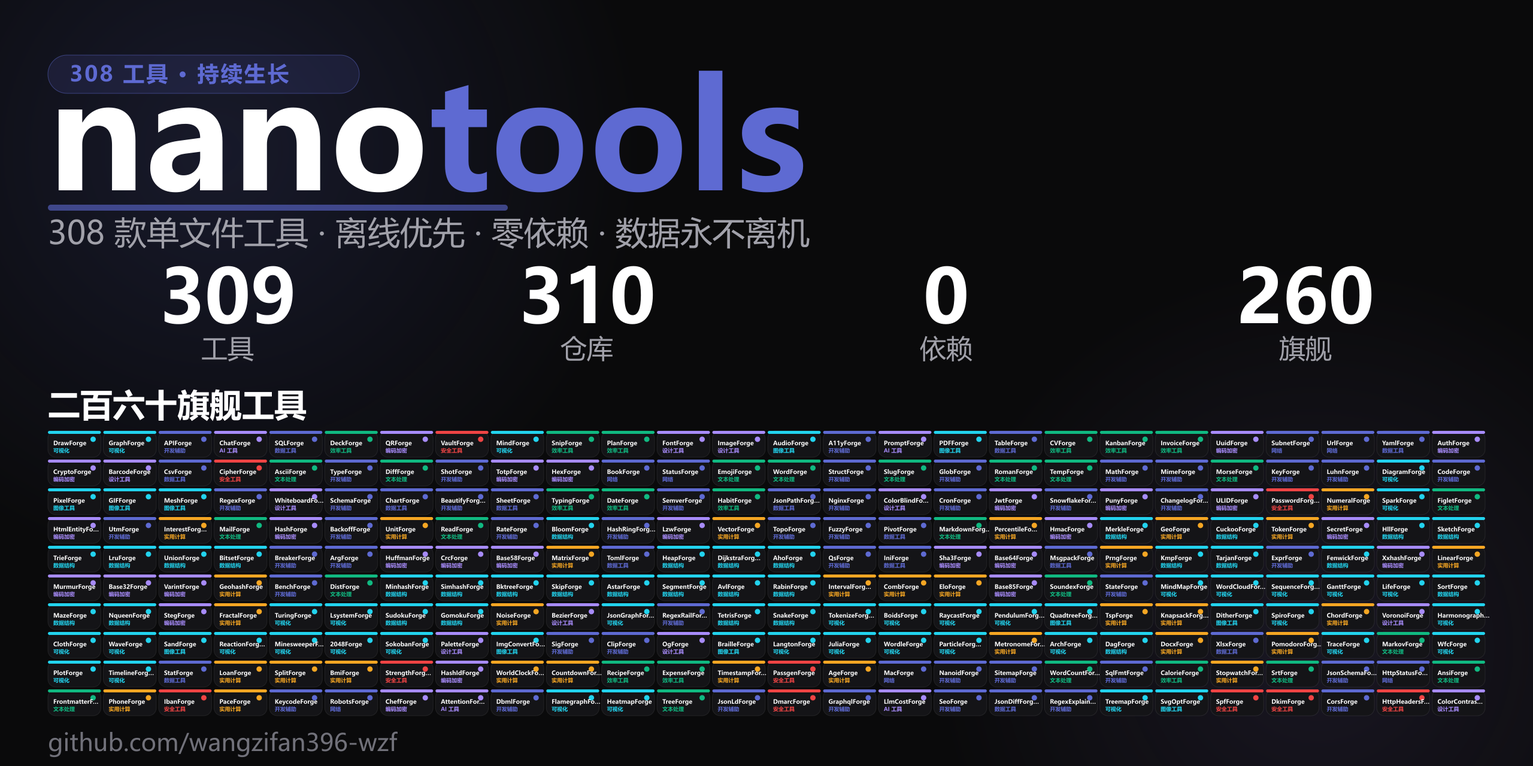
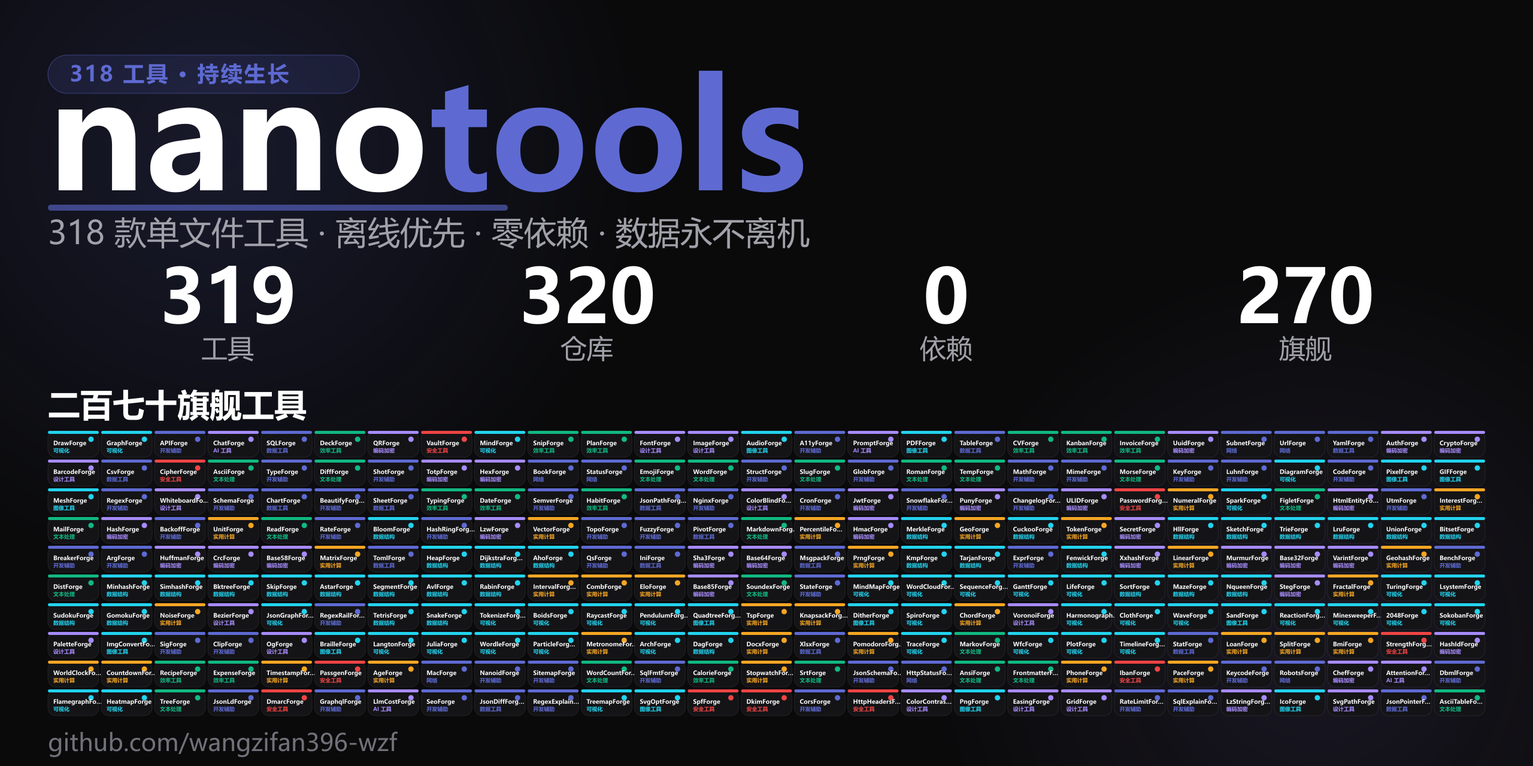
chore: batch44 wiring + promo (318 tools / 270 flagships)

diff --git a/index.html b/index.html
@@ -5,9 +5,9 @@
 <meta charset="UTF-8">
 <meta name="viewport" content="width=device-width, initial-scale=1.0">
 <title data-i18n="meta_title">nano-tools · 单文件零依赖工具集</title>
-<meta name="description" data-i18n="meta_desc" content="一个标签页，收纳你全部的开发者工具。308 个单文件、零依赖、本地优先的开源工具，下载即用，数据永不离机。">
+<meta name="description" data-i18n="meta_desc" content="一个标签页，收纳你全部的开发者工具。318 个单文件、零依赖、本地优先的开源工具，下载即用，数据永不离机。">
 <meta property="og:title" data-i18n="og_title" content="nano-tools · 单文件零依赖工具集">
-<meta property="og:description" data-i18n="og_desc" content="308 个单文件、零依赖、本地优先的开发者工具，下载即用，数据永不离机。">
+<meta property="og:description" data-i18n="og_desc" content="318 个单文件、零依赖、本地优先的开发者工具，下载即用，数据永不离机。">
 <meta property="og:image" content="social-preview.png">
 <meta property="og:image:width" content="1280">
 <meta property="og:image:height" content="640">
@@ -278,13 +278,13 @@
     <div class="hero-left">
       <span class="eyebrow"><span class="dot"></span><span data-i18n="hero_eyebrow">开源 · 零依赖 · 单文件</span></span>
       <h1 class="title" data-i18n-html="hero_title">一个标签页，<br>收纳你<span class="hl">全部的开发者工具</span></h1>
-      <p class="subtitle" data-i18n="hero_subtitle">308 个单文件、离线优先的开源工具，覆盖编码、转换、可视化与 AI。下载即用，数据永远留在你的浏览器里。</p>
+      <p class="subtitle" data-i18n="hero_subtitle">318 个单文件、离线优先的开源工具，覆盖编码、转换、可视化与 AI。下载即用，数据永远留在你的浏览器里。</p>
       <div class="hero-cta">
         <a class="btn primary" href="#tools" data-i18n="hero_browse">浏览工具 ↓</a>
         <a class="btn" href="https://github.com/wangzifan396-wzf" target="_blank" rel="noopener" data-i18n="hero_github">在 GitHub 查看</a>
       </div>
       <div class="hero-meta">
-        <span><b>310</b> <span data-i18n="meta_repos">开源仓库</span></span>
+        <span><b>320</b> <span data-i18n="meta_repos">开源仓库</span></span>
         <span><b>0</b> <span data-i18n="meta_deps">外部依赖</span></span>
         <span><b>100%</b> <span data-i18n="meta_local">本地运行</span></span>
       </div>
@@ -327,7 +327,7 @@
   <div class="wrap">
     <div class="sec-head reveal">
       <span class="label" data-i18n="tools_label">工具矩阵</span>
-      <h2 class="sec-title" data-i18n="tools_title">308 款精心打磨的开发者工具</h2>
+      <h2 class="sec-title" data-i18n="tools_title">318 款精心打磨的开发者工具</h2>
       <p class="sec-desc" data-i18n="tools_desc">搜索或按分类筛选，点击「在线试用」立即体验，或前往源码仓库查看实现。</p>
     </div>
     <div class="controls reveal">
@@ -385,7 +385,7 @@
 <div class="wrap">
   <div class="cta-band reveal" style="border-color:var(--acc);">
     <span class="pill ok" style="align-self:center;background:rgba(94,106,210,.16);color:#aab2f0;" data-i18n="wb_badge">★ 聚合工作台</span>
-    <h2 data-i18n="wb_title">一个标签页，收纳全部 308 款工具</h2>
+    <h2 data-i18n="wb_title">一个标签页，收纳全部 318 款工具</h2>
     <p data-i18n="wb_desc">nano-workbench：点选即在内嵌窗口运行、标签间即时切换，无需反复打开新页面。数据永不离机。</p>
     <div class="hero-cta">
       <a class="btn primary" href="https://wangzifan396-wzf.github.io/nano-workbench/" target="_blank" rel="noopener" data-i18n="wb_open">打开工作台 ↗</a>
@@ -397,7 +397,7 @@
 <div class="wrap">
   <div class="cta-band reveal">
     <h2 data-i18n="cta_title">把你下一个小工具，交给 nano-tools</h2>
-    <p data-i18n="cta_desc">310 个仓库、308 款工具，全部开源、零依赖、本地优先。</p>
+    <p data-i18n="cta_desc">320 个仓库、318 款工具，全部开源、零依赖、本地优先。</p>
     <div class="hero-cta">
       <a class="btn primary" href="#tools" data-i18n="cta_browse">开始浏览</a>
       <a class="btn" href="https://github.com/wangzifan396-wzf" target="_blank" rel="noopener">★ Star on GitHub</a>
@@ -425,16 +425,16 @@
   // 双语字典（中 / 英）。data-i18n 文本用 textContent；data-i18n-html 保留 <br>/<span> 结构；meta 改 content 属性。
   var I18N = {
     "meta_title":{zh:"nano-tools · 单文件零依赖工具集",en:"nano-tools · single-file, zero-dep tools"},
-    "meta_desc":{zh:"一个标签页，收纳你全部的开发者工具。308 个单文件、零依赖、本地优先的开源工具，下载即用，数据永不离机。",en:"One tab for all your dev tools. 308 single-file, zero-dep, local-first open-source tools. Download and use; data never leaves the browser."},
+    "meta_desc":{zh:"一个标签页，收纳你全部的开发者工具。318 个单文件、零依赖、本地优先的开源工具，下载即用，数据永不离机。",en:"One tab for all your dev tools. 318 single-file, zero-dep, local-first open-source tools. Download and use; data never leaves the browser."},
     "og_title":{zh:"nano-tools · 单文件零依赖工具集",en:"nano-tools · single-file, zero-dep tools"},
-    "og_desc":{zh:"308 个单文件、零依赖、本地优先的开发者工具，下载即用，数据永不离机。",en:"308 single-file, zero-dep, local-first dev tools. Download and use; data never leaves the browser."},
+    "og_desc":{zh:"318 个单文件、零依赖、本地优先的开发者工具，下载即用，数据永不离机。",en:"318 single-file, zero-dep, local-first dev tools. Download and use; data never leaves the browser."},
     "nav_features":{zh:"特性",en:"Features"},
     "nav_tools":{zh:"工具",en:"Tools"},
     "nav_stats":{zh:"数据",en:"Stats"},
     "nav_faq":{zh:"问答",en:"FAQ"},
     "hero_eyebrow":{zh:"开源 · 零依赖 · 单文件",en:"Open-source · Zero-dep · Single-file"},
     "hero_title":{zh:'一个标签页，<br>收纳你<span class="hl">全部的开发者工具</span>',en:'One tab, <br>for <span class="hl">all your dev tools</span>'},
-    "hero_subtitle":{zh:"308 个单文件、离线优先的开源工具，覆盖编码、转换、可视化与 AI。下载即用，数据永远留在你的浏览器里。",en:"308 single-file, offline-first open-source tools spanning encoding, conversion, visualization & AI. Download and use instantly; your data never leaves the browser."},
+    "hero_subtitle":{zh:"318 个单文件、离线优先的开源工具，覆盖编码、转换、可视化与 AI。下载即用，数据永远留在你的浏览器里。",en:"318 single-file, offline-first open-source tools spanning encoding, conversion, visualization & AI. Download and use instantly; your data never leaves the browser."},
     "hero_browse":{zh:"浏览工具 ↓",en:"Browse tools ↓"},
     "hero_github":{zh:"在 GitHub 查看",en:"View on GitHub"},
     "meta_repos":{zh:"开源仓库",en:"Open-source repos"},
@@ -450,16 +450,16 @@
     "step3_t":{zh:"单文件可携",en:"Portable single-file"},
     "step3_d":{zh:"每个工具只有一个 HTML 文件，零依赖、可随便复制分享，U 盘里也能跑。",en:"Each tool is one HTML file — zero dependencies, copy & share freely, runs from a USB stick."},
     "tools_label":{zh:"工具矩阵",en:"Tool matrix"},
-    "tools_title":{zh:"308 款精心打磨的开发者工具",en:"308 Hand-crafted Dev Tools"},
+    "tools_title":{zh:"318 款精心打磨的开发者工具",en:"318 Hand-crafted Dev Tools"},
     "tools_desc":{zh:"搜索或按分类筛选，点击「在线试用」立即体验，或前往源码仓库查看实现。",en:"Search or filter by category, hit “Live Demo” to try instantly, or visit the source repo."},
     "search_ph":{zh:"搜索工具… 试试 regex / json / 颜色 / 压缩 / 图表",en:"Search tools… try regex / json / color / compress / chart"},
     "btn_demo":{zh:"在线试用",en:"Live Demo"},
     "btn_src":{zh:"源码",en:"Source"},
     "no_result":{zh:"没有匹配的工具，换个关键词试试 🔍",en:"No matching tools — try another keyword 🔍"},
     "cta_title":{zh:"把你下一个小工具，交给 nano-tools",en:"Your next tiny tool, from nano-tools"},
-    "cta_desc":{zh:"310 个仓库、308 款工具，全部开源、零依赖、本地优先。",en:"310 repos, 308 tools. All open-source, zero-dep, local-first."},
+    "cta_desc":{zh:"320 个仓库、318 款工具，全部开源、零依赖、本地优先。",en:"320 repos, 318 tools. All open-source, zero-dep, local-first."},
     "wb_badge":{zh:"★ 聚合工作台",en:"★ Unified Workbench"},
-    "wb_title":{zh:"一个标签页，收纳全部 308 款工具",en:"All 308 tools in one tab"},
+    "wb_title":{zh:"一个标签页，收纳全部 318 款工具",en:"All 318 tools in one tab"},
     "wb_desc":{zh:"nano-workbench：点选即在内嵌窗口运行、标签间即时切换，无需反复打开新页面。数据永不离机。",en:"nano-workbench: pick a tool and run it in an embedded pane, switch tabs instantly — no more reopening pages. Data never leaves your machine."},
     "wb_open":{zh:"打开工作台 ↗",en:"Open Workbench ↗"},
     "wb_src":{zh:"查看源码",en:"View Source"},
@@ -1049,6 +1049,36 @@
     {id:"ColorContrastForge", name:"ColorContrastForge", icon:"contrast", cat:"设计工具", badge:"旗舰",
      desc:"WCAG 颜色对比度计算器：相对亮度、对比比率、AA/AAA 通过判定与实时预览，离线可用。",
      tags:["color","contrast","wcag","accessibility","a11y"]},
+    {id:"PngForge", name:"PngForge", icon:"png", cat:"图像工具", badge:"旗舰",
+     desc:"PNG 元数据解析：读取 IHDR 尺寸/色彩类型/位深/交错、调色板与 ICC 标记、tEXt 文本块，离线可用。",
+     tags:["png","image","metadata","ihdr","chunk","parser"]},
+    {id:"EasingForge", name:"EasingForge", icon:"easing", cat:"设计工具", badge:"旗舰",
+     desc:"缓动函数库：10 种经典曲线 + cubic-bezier 牛顿迭代求值，SVG 曲线可视化预览，离线可用。",
+     tags:["easing","animation","cubic-bezier","curve","css"]},
+    {id:"GridForge", name:"GridForge", icon:"grid", cat:"设计工具", badge:"旗舰",
+     desc:"CSS Grid 模板生成器：列/行/单位/间距实时生成 grid-template 与模板区域，带可视预览，离线可用。",
+     tags:["css","grid","layout","template-areas","generator"]},
+    {id:"RateLimitForge", name:"RateLimitForge", icon:"ratelimit", cat:"开发辅助", badge:"旗舰",
+     desc:"限流算法可视化：令牌桶/漏桶/滑动窗口的可用量、剩余量与容量估算，附算法对比说明，离线可用。",
+     tags:["ratelimit","token-bucket","leaky-bucket","sliding-window","throttle"]},
+    {id:"SqlExplainForge", name:"SqlExplainForge", icon:"sqlexplain", cat:"开发辅助", badge:"旗舰",
+     desc:"SQL 执行顺序解析：拆解 SELECT/FROM/JOIN/WHERE/GROUP/ORDER/LIMIT，按真实执行步骤还原，离线可用。",
+     tags:["sql","explain","query","execution-order","parser"]},
+    {id:"LzStringForge", name:"LzStringForge", icon:"lz", cat:"编码加密", badge:"旗舰",
+     desc:"LZW 字符串压缩：纯 JS 文本压缩为 Base64、UTF-8 安全、压缩率统计与无损还原，离线可用。",
+     tags:["lzw","compress","base64","string","lossless"]},
+    {id:"IcoForge", name:"IcoForge", icon:"ico", cat:"图像工具", badge:"旗舰",
+     desc:"PNG 转 ICO：校验 PNG 签名、读取尺寸并打包为 Windows .ico 容器供下载，纯前端离线生成。",
+     tags:["ico","png","icon","favicon","convert"]},
+    {id:"SvgPathForge", name:"SvgPathForge", icon:"svgpath", cat:"设计工具", badge:"旗舰",
+     desc:"SVG path 工具箱：命令解析、相对↔绝对互转、包围盒计算与坐标数值简化取整，离线可用。",
+     tags:["svg","path","bbox","absolute","simplify"]},
+    {id:"JsonPointerForge", name:"JsonPointerForge", icon:"pointer", cat:"数据工具", badge:"旗舰",
+     desc:"RFC 6901 JSON Pointer：按 /a/b/1 取值与赋值、~0/~1 转义处理，便于 JSON 补丁与定位，离线可用。",
+     tags:["json","pointer","rfc6901","patch","path"]},
+    {id:"AsciiTableForge", name:"AsciiTableForge", icon:"asciitbl", cat:"文本处理", badge:"旗舰",
+     desc:"ASCII 表格生成器：Tab/逗号分隔行列数据渲染为带边框、列宽对齐的纯文本表格，离线可用。",
+     tags:["ascii","table","text","align","markdown"]},
     {id:"MetronomeForge", name:"MetronomeForge", icon:"mtm", cat:"实用计算", badge:"旗舰",
      desc:"节拍器：可调 BPM 与拍号，支持重音与前瞻调度内核，Tap 测速，辅助练习节奏，离线可用。",
      tags:["metronome","bpm","tempo","rhythm","music"]},
@@ -1699,6 +1729,16 @@
     CorsForge:{desc:"CORS config validator: wildcard/multi-origin/credential risk detection, compliance grade. Offline.", cat:"Dev"},
     HttpHeadersForge:{desc:"HTTP security headers audit: 8 checks (HSTS/CSP/COOP...), score & grade, fix advice. Offline.", cat:"Security"},
     ColorContrastForge:{desc:"WCAG color-contrast calculator: relative luminance, contrast ratio, AA/AAA verdict, live preview. Offline.", cat:"Design"},
+    PngForge:{desc:"PNG metadata parser: IHDR size/color-type/bit-depth/interlace, palette & ICC markers, tEXt chunks. Offline.", cat:"Image"},
+    EasingForge:{desc:"Easing library: 10 classic curves + cubic-bezier Newton solver, SVG curve preview. Offline.", cat:"Design"},
+    GridForge:{desc:"CSS Grid generator: live grid-template & template-areas from cols/rows/unit/gap, with visual preview. Offline.", cat:"Design"},
+    RateLimitForge:{desc:"Rate-limit algorithm visualizer: token bucket / leaky bucket / sliding window availability & capacity math. Offline.", cat:"Dev"},
+    SqlExplainForge:{desc:"SQL execution-order explainer: parse SELECT/FROM/JOIN/WHERE/GROUP/ORDER/LIMIT into real execution steps. Offline.", cat:"Dev"},
+    LzStringForge:{desc:"LZW string compressor: pure-JS text to Base64, UTF-8 safe, ratio stats, lossless restore. Offline.", cat:"Encoding"},
+    IcoForge:{desc:"PNG to ICO: verify signature, read size, pack into a Windows .ico container for download. Fully client-side.", cat:"Image"},
+    SvgPathForge:{desc:"SVG path toolkit: command parsing, relative<->absolute conversion, bounding box, coordinate simplification. Offline.", cat:"Design"},
+    JsonPointerForge:{desc:"RFC 6901 JSON Pointer: get/set by /a/b/1, ~0 and ~1 escaping, for JSON patching & deep addressing. Offline.", cat:"Data"},
+    AsciiTableForge:{desc:"ASCII table generator: render tab/comma-separated rows into bordered, column-aligned plain-text tables. Offline.", cat:"Text"},
     MetronomeForge:{desc:"Metronome: tune BPM & time signature, accent & lookahead scheduler core, tap tempo, practice rhythm. Offline.", cat:"Utility"},
     PaletteForge:{desc:"Palette generator: hue-rotate complementary/triadic/analogous/mono schemes, WCAG contrast check, click to copy. Offline.", cat:"Design"},
     ChordForge:{desc:"Chord & scale: detect chords, build scales, note-name parsing + enharmonic.", cat:"Utility"},
@@ -2040,6 +2080,16 @@
     cors:'<circle cx="12" cy="12" r="9"/><path d="M3 12h18M12 3a15 15 0 0 1 0 18 15 15 0 0 1 0-18M7 8c2 2 8 2 10 0M7 16c2-2 8-2 10 0"/>',
     httpheaders:'<path d="M4 5h16M4 9h12M4 13h16M4 17h9"/><circle cx="18" cy="17" r="1.5"/>',
     contrast:'<circle cx="12" cy="12" r="9"/><path d="M12 3a9 9 0 0 1 0 18z" fill="currentColor"/>',
+    png:'<rect x="3" y="3" width="18" height="18" rx="3"/><circle cx="8.5" cy="8.5" r="1.6"/><path d="M21 15l-5-5-5 5"/>',
+    easing:'<path d="M3 18Q12 3 21 18"/><circle cx="12" cy="10.5" r="2"/>',
+    grid:'<rect x="3" y="3" width="7" height="7" rx="1"/><rect x="14" y="3" width="7" height="7" rx="1"/><rect x="3" y="14" width="7" height="7" rx="1"/><rect x="14" y="14" width="7" height="7" rx="1"/>',
+    ratelimit:'<path d="M12 3v3M12 18v3M3 12h3M18 12h3"/><circle cx="12" cy="12" r="6"/>',
+    sqlexplain:'<ellipse cx="12" cy="5" rx="7" ry="3"/><path d="M5 5v6c0 1.7 3.1 3 7 3s7-1.3 7-3V5"/><path d="M5 11v6c0 1.7 3.1 3 7 3s7-1.3 7-3v-6"/>',
+    lz:'<path d="M4 7h16M4 12h10M4 17h7"/><path d="M15 14l5 5M20 14l-5 5"/>',
+    ico:'<path d="M12 2l9 4v6c0 5-3.8 8.4-9 10-5.2-1.6-9-5-9-10V6z"/><path d="M9 12l2 2 4-4"/>',
+    svgpath:'<path d="M4 18C4 10 10 4 20 4"/><circle cx="4" cy="18" r="2"/><circle cx="20" cy="4" r="2"/>',
+    pointer:'<path d="M9 11l3 3 3-3"/><path d="M12 4v10"/><path d="M4 18h16"/>',
+    asciitbl:'<rect x="3" y="4" width="18" height="4" rx="1"/><rect x="3" y="10" width="18" height="4" rx="1"/><rect x="3" y="16" width="18" height="4" rx="1"/>',
   };
   function iconSvg(k){ return '<svg viewBox="0 0 24 24" fill="none" stroke="currentColor" stroke-width="1.8" stroke-linecap="round" stroke-linejoin="round">'+(ICONS[k]||"")+'</svg>'; }
 
@@ -2049,7 +2099,7 @@
   var $ = function(s,el){return (el||document).querySelector(s);};
   var state = {q:"", cat:"全部", flag:false, fav:false};
   var LANG = (function(){ try{return localStorage.getItem("nano-lang")||"zh";}catch(e){return "zh";} })();
-  var FLAG_IDS = {"DrawForge":1,"GraphForge":1,"APIForge":1,"ChatForge":1,"SQLForge":1,"DeckForge":1,"QRForge":1,"VaultForge":1,"MindForge":1,"SnipForge":1,"PlanForge":1,"FontForge":1,"ImageForge":1,"AudioForge":1,"A11yForge":1,"PromptForge":1,"PDFForge":1,"TableForge":1,"CVForge":1,"KanbanForge":1,"InvoiceForge":1,"UuidForge":1,"SubnetForge":1,"UrlForge":1,"YamlForge":1,"AuthForge":1,"CryptoForge":1,"BarcodeForge":1,"CsvForge":1,"CipherForge":1,"AsciiForge":1,"TypeForge":1,"DiffForge":1,"ShotForge":1,"TotpForge":1,"HexForge":1,"BookForge":1,"StatusForge":1,"EmojiForge":1,"WordForge":1,"StructForge":1,"SlugForge":1,"GlobForge":1,"RomanForge":1,"TempForge":1,"MathForge":1,"MimeForge":1,"MorseForge":1,"KeyForge":1,"LuhnForge":1,"DiagramForge":1,"CodeForge":1,"PixelForge":1,"GIFForge":1,"MeshForge":1,"RegexForge":1,"WhiteboardForge":1,"SchemaForge":1,"ChartForge":1,"BeautifyForge":1,"SheetForge":1,"TypingForge":1,"DateForge":1,"SemverForge":1,"HabitForge":1,"JsonPathForge":1,"NginxForge":1,"ColorBlindForge":1,"CronForge":1,"JwtForge":1,"SnowflakeForge":1,"PunyForge":1,"ChangelogForge":1,"ULIDForge":1,"PasswordForge":1,"NumeralForge":1,"SparkForge":1,"FigletForge":1,"HtmlEntityForge":1,"UtmForge":1,"InterestForge":1,"MailForge":1,"HashForge":1,"BackoffForge":1,"UnitForge":1,"ReadForge":1,"RateForge":1,"BloomForge":1,"HashRingForge":1,"LzwForge":1,"VectorForge":1,"TopoForge":1,"FuzzyForge":1,"PivotForge":1,"MarkdownForge":1,"PercentileForge":1,"HmacForge":1,"MerkleForge":1,"GeoForge":1,"CuckooForge":1,"TokenForge":1,"SecretForge":1,"HllForge":1,"SketchForge":1,"TrieForge":1,"LruForge":1,"UnionForge":1,"BitsetForge":1,"BreakerForge":1,"ArgForge":1,"HuffmanForge":1,"CrcForge":1,"Base58Forge":1,"MatrixForge":1,"TomlForge":1,"HeapForge":1,"DijkstraForge":1,"AhoForge":1,"QsForge":1,"IniForge":1,"Sha3Forge":1,"Base64Forge":1,"MsgpackForge":1,"PrngForge":1,"KmpForge":1,"TarjanForge":1,"ExprForge":1,"FenwickForge":1,"XxhashForge":1,"LinearForge":1,"MurmurForge":1,"Base32Forge":1,"VarintForge":1,"GeohashForge":1,"BenchForge":1,"DistForge":1,"MinhashForge":1,"SimhashForge":1,"BktreeForge":1,"SkipForge":1,"AstarForge":1,"SegmentForge":1,"AvlForge":1,"RabinForge":1,"IntervalForge":1,"CombForge":1,"EloForge":1,"Base85Forge":1,"SoundexForge":1,"StateForge":1,"MindMapForge":1,"WordCloudForge":1,"SequenceForge":1,"GanttForge":1,"LifeForge":1,"SortForge":1,"MazeForge":1,"NqueenForge":1,"StegForge":1,"FractalForge":1,"TuringForge":1,"LsystemForge":1,"SudokuForge":1,"GomokuForge":1,"NoiseForge":1,"BezierForge":1,"JsonGraphForge":1,"RegexRailForge":1,"TetrisForge":1,"SnakeForge":1,"TokenizeForge":1,"BoidsForge":1,"RaycastForge":1,"PendulumForge":1,"QuadtreeForge":1,"TspForge":1,"KnapsackForge":1,"DitherForge":1,"SpiroForge":1,"ChordForge":1,"VoronoiForge":1,"HarmonographForge":1,"ClothForge":1,"WaveForge":1,"SandForge":1,"ReactionForge":1,"MinesweeperForge":1,"2048Forge":1,"SokobanForge":1,"PaletteForge":1,"ImgConvertForge":1,"SigForge":1,"ClipForge":1,"OgForge":1,"BrailleForge":1,"LangtonForge":1,"JuliaForge":1,"WordleForge":1,"ParticleForge":1,"MetronomeForge":1,"ArchForge":1,"DagForge":1,"DocxForge":1,"XlsxForge":1,"PomodoroForge":1,"TraceForge":1,"MarkovForge":1,"WfcForge":1,"PlotForge":1,"TimelineForge":1,"StatForge":1,"LoanForge":1,"SplitForge":1,"BmiForge":1,"StrengthForge":1,"HashIdForge":1,"WorldClockForge":1,"CountdownForge":1,"RecipeForge":1,"ExpenseForge":1,"TimestampForge":1,"PassgenForge":1,"AgeForge":1,"MacForge":1,"NanoidForge":1,"SitemapForge":1,"WordCountForge":1,"SqlFmtForge":1,"CalorieForge":1,"StopwatchForge":1,"SrtForge":1,"JsonSchemaForge":1,"HttpStatusForge":1,"AnsiForge":1,"FrontmatterForge":1,"PhoneForge":1,"IbanForge":1,"PaceForge":1,"KeycodeForge":1,"RobotsForge":1,"ChefForge":1,"AttentionForge":1,"DbmlForge":1,"FlamegraphForge":1,"HeatmapForge":1,"TreeForge":1,"JsonLdForge":1,"DmarcForge":1,"GraphqlForge":1,"LlmCostForge":1,"SeoForge":1,"JsonDiffForge":1,"RegexExplainForge":1,"TreemapForge":1,"SvgOptForge":1,"SpfForge":1,"DkimForge":1,"CorsForge":1,"HttpHeadersForge":1,"ColorContrastForge":1};
+  var FLAG_IDS = {"DrawForge":1,"GraphForge":1,"APIForge":1,"ChatForge":1,"SQLForge":1,"DeckForge":1,"QRForge":1,"VaultForge":1,"MindForge":1,"SnipForge":1,"PlanForge":1,"FontForge":1,"ImageForge":1,"AudioForge":1,"A11yForge":1,"PromptForge":1,"PDFForge":1,"TableForge":1,"CVForge":1,"KanbanForge":1,"InvoiceForge":1,"UuidForge":1,"SubnetForge":1,"UrlForge":1,"YamlForge":1,"AuthForge":1,"CryptoForge":1,"BarcodeForge":1,"CsvForge":1,"CipherForge":1,"AsciiForge":1,"TypeForge":1,"DiffForge":1,"ShotForge":1,"TotpForge":1,"HexForge":1,"BookForge":1,"StatusForge":1,"EmojiForge":1,"WordForge":1,"StructForge":1,"SlugForge":1,"GlobForge":1,"RomanForge":1,"TempForge":1,"MathForge":1,"MimeForge":1,"MorseForge":1,"KeyForge":1,"LuhnForge":1,"DiagramForge":1,"CodeForge":1,"PixelForge":1,"GIFForge":1,"MeshForge":1,"RegexForge":1,"WhiteboardForge":1,"SchemaForge":1,"ChartForge":1,"BeautifyForge":1,"SheetForge":1,"TypingForge":1,"DateForge":1,"SemverForge":1,"HabitForge":1,"JsonPathForge":1,"NginxForge":1,"ColorBlindForge":1,"CronForge":1,"JwtForge":1,"SnowflakeForge":1,"PunyForge":1,"ChangelogForge":1,"ULIDForge":1,"PasswordForge":1,"NumeralForge":1,"SparkForge":1,"FigletForge":1,"HtmlEntityForge":1,"UtmForge":1,"InterestForge":1,"MailForge":1,"HashForge":1,"BackoffForge":1,"UnitForge":1,"ReadForge":1,"RateForge":1,"BloomForge":1,"HashRingForge":1,"LzwForge":1,"VectorForge":1,"TopoForge":1,"FuzzyForge":1,"PivotForge":1,"MarkdownForge":1,"PercentileForge":1,"HmacForge":1,"MerkleForge":1,"GeoForge":1,"CuckooForge":1,"TokenForge":1,"SecretForge":1,"HllForge":1,"SketchForge":1,"TrieForge":1,"LruForge":1,"UnionForge":1,"BitsetForge":1,"BreakerForge":1,"ArgForge":1,"HuffmanForge":1,"CrcForge":1,"Base58Forge":1,"MatrixForge":1,"TomlForge":1,"HeapForge":1,"DijkstraForge":1,"AhoForge":1,"QsForge":1,"IniForge":1,"Sha3Forge":1,"Base64Forge":1,"MsgpackForge":1,"PrngForge":1,"KmpForge":1,"TarjanForge":1,"ExprForge":1,"FenwickForge":1,"XxhashForge":1,"LinearForge":1,"MurmurForge":1,"Base32Forge":1,"VarintForge":1,"GeohashForge":1,"BenchForge":1,"DistForge":1,"MinhashForge":1,"SimhashForge":1,"BktreeForge":1,"SkipForge":1,"AstarForge":1,"SegmentForge":1,"AvlForge":1,"RabinForge":1,"IntervalForge":1,"CombForge":1,"EloForge":1,"Base85Forge":1,"SoundexForge":1,"StateForge":1,"MindMapForge":1,"WordCloudForge":1,"SequenceForge":1,"GanttForge":1,"LifeForge":1,"SortForge":1,"MazeForge":1,"NqueenForge":1,"StegForge":1,"FractalForge":1,"TuringForge":1,"LsystemForge":1,"SudokuForge":1,"GomokuForge":1,"NoiseForge":1,"BezierForge":1,"JsonGraphForge":1,"RegexRailForge":1,"TetrisForge":1,"SnakeForge":1,"TokenizeForge":1,"BoidsForge":1,"RaycastForge":1,"PendulumForge":1,"QuadtreeForge":1,"TspForge":1,"KnapsackForge":1,"DitherForge":1,"SpiroForge":1,"ChordForge":1,"VoronoiForge":1,"HarmonographForge":1,"ClothForge":1,"WaveForge":1,"SandForge":1,"ReactionForge":1,"MinesweeperForge":1,"2048Forge":1,"SokobanForge":1,"PaletteForge":1,"ImgConvertForge":1,"SigForge":1,"ClipForge":1,"OgForge":1,"BrailleForge":1,"LangtonForge":1,"JuliaForge":1,"WordleForge":1,"ParticleForge":1,"MetronomeForge":1,"ArchForge":1,"DagForge":1,"DocxForge":1,"XlsxForge":1,"PomodoroForge":1,"TraceForge":1,"MarkovForge":1,"WfcForge":1,"PlotForge":1,"TimelineForge":1,"StatForge":1,"LoanForge":1,"SplitForge":1,"BmiForge":1,"StrengthForge":1,"HashIdForge":1,"WorldClockForge":1,"CountdownForge":1,"RecipeForge":1,"ExpenseForge":1,"TimestampForge":1,"PassgenForge":1,"AgeForge":1,"MacForge":1,"NanoidForge":1,"SitemapForge":1,"WordCountForge":1,"SqlFmtForge":1,"CalorieForge":1,"StopwatchForge":1,"SrtForge":1,"JsonSchemaForge":1,"HttpStatusForge":1,"AnsiForge":1,"FrontmatterForge":1,"PhoneForge":1,"IbanForge":1,"PaceForge":1,"KeycodeForge":1,"RobotsForge":1,"ChefForge":1,"AttentionForge":1,"DbmlForge":1,"FlamegraphForge":1,"HeatmapForge":1,"TreeForge":1,"JsonLdForge":1,"DmarcForge":1,"GraphqlForge":1,"LlmCostForge":1,"SeoForge":1,"JsonDiffForge":1,"RegexExplainForge":1,"TreemapForge":1,"SvgOptForge":1,"SpfForge":1,"DkimForge":1,"CorsForge":1,"HttpHeadersForge":1,"ColorContrastForge":1,"PngForge":1,"EasingForge":1,"GridForge":1,"RateLimitForge":1,"SqlExplainForge":1,"LzStringForge":1,"IcoForge":1,"SvgPathForge":1,"JsonPointerForge":1,"AsciiTableForge":1};
   var FAV_KEY = "nano-favs";
   function getFavs(){ try{return JSON.parse(localStorage.getItem(FAV_KEY)||"[]");}catch(e){return [];} }
   function setFav(id,on){ var s=getFavs(); var i=s.indexOf(id); if(on&&i<0)s.push(id); if(!on&&i>=0)s.splice(i,1); try{localStorage.setItem(FAV_KEY,JSON.stringify(s));}catch(e){} }

diff --git a/README.md b/README.md
@@ -3,7 +3,7 @@
   <img src="https://img.shields.io/github/forks/wangzifan396-wzf/WB?style=flat-square" alt="Forks">
   <img src="https://img.shields.io/github/issues/wangzifan396-wzf/WB?style=flat-square" alt="Issues">
   <img src="https://img.shields.io/github/last-commit/wangzifan396-wzf/WB?style=flat-square" alt="Last Commit">
-  <img src="https://img.shields.io/badge/tools-308-5E6AD2?style=flat-square" alt="308 Tools">
+  <img src="https://img.shields.io/badge/tools-318-5E6AD2?style=flat-square" alt="318 Tools">
   <img src="https://img.shields.io/badge/dependencies-zero-2EA043?style=flat-square" alt="Zero Dep">
   <img src="https://img.shields.io/github/license/wangzifan396-wzf/WB?style=flat-square" alt="License">
 </p>
@@ -16,7 +16,7 @@
 
 # nano-tools · 单文件工具集门户
 
-**308 款单文件、零依赖、本地优先的开发者工具**的总入口（310 个仓库 · 260 款旗舰 ⭐）。每个工具都是一个 `index.html`——无需安装、无需构建、无需联网，下载即用，数据永远留在你的浏览器里。
+**318 款单文件、零依赖、本地优先的开发者工具**的总入口（320 个仓库 · 270 款旗舰 ⭐）。每个工具都是一个 `index.html`——无需安装、无需构建、无需联网，下载即用，数据永远留在你的浏览器里。
 
 ## 为什么是 nano-tools
 
@@ -25,7 +25,7 @@
 - **本地优先**：所有计算在你的浏览器内完成，数据永不上传。
 - **独立仓库**：每个工具一个仓库，可单独 fork / star / 魔改，互不牵连。
 
-## 🧰 工具矩阵（308 款 · ⭐ = 旗舰）
+## 🧰 工具矩阵（318 款 · ⭐ = 旗舰）
 
 | 工具 | 分类 | 简介 |
 |------|------|------|
@@ -216,6 +216,16 @@
 | [CorsForge](https://wangzifan396-wzf.github.io/CorsForge/) ⭐ | 开发辅助 | CORS 配置校验：通配符/多来源/凭证组合风险检测、合规评级，离线可用。 |
 | [HttpHeadersForge](https://wangzifan396-wzf.github.io/HttpHeadersForge/) ⭐ | 安全工具 | HTTP 安全响应头审计：HSTS/CSP/COOP 等 8 项体检、评分分级、修复建议，离线可用。 |
 | [ColorContrastForge](https://wangzifan396-wzf.github.io/ColorContrastForge/) ⭐ | 设计工具 | WCAG 颜色对比度计算器：相对亮度、对比比率、AA/AAA 通过判定与实时预览，离线可用。 |
+| [PngForge](https://wangzifan396-wzf.github.io/PngForge/) ⭐ | 图像工具 | PNG 元数据解析：读取 IHDR 尺寸/色彩类型/位深/交错、调色板与 ICC 标记、tEXt 文本块，离线可用。 |
+| [EasingForge](https://wangzifan396-wzf.github.io/EasingForge/) ⭐ | 设计工具 | 缓动函数库：10 种经典曲线 + cubic-bezier 牛顿迭代求值，SVG 曲线可视化预览，离线可用。 |
+| [GridForge](https://wangzifan396-wzf.github.io/GridForge/) ⭐ | 设计工具 | CSS Grid 模板生成器：列/行/单位/间距实时生成 grid-template 与模板区域，带可视预览，离线可用。 |
+| [RateLimitForge](https://wangzifan396-wzf.github.io/RateLimitForge/) ⭐ | 开发辅助 | 限流算法可视化：令牌桶/漏桶/滑动窗口的可用量、剩余量与容量估算，附算法对比说明，离线可用。 |
+| [SqlExplainForge](https://wangzifan396-wzf.github.io/SqlExplainForge/) ⭐ | 开发辅助 | SQL 执行顺序解析：拆解 SELECT/FROM/JOIN/WHERE/GROUP/ORDER/LIMIT，按真实执行步骤还原，离线可用。 |
+| [LzStringForge](https://wangzifan396-wzf.github.io/LzStringForge/) ⭐ | 编码加密 | LZW 字符串压缩：纯 JS 文本压缩为 Base64、UTF-8 安全、压缩率统计与无损还原，离线可用。 |
+| [IcoForge](https://wangzifan396-wzf.github.io/IcoForge/) ⭐ | 图像工具 | PNG 转 ICO：校验 PNG 签名、读取尺寸并打包为 Windows .ico 容器供下载，纯前端离线生成。 |
+| [SvgPathForge](https://wangzifan396-wzf.github.io/SvgPathForge/) ⭐ | 设计工具 | SVG path 工具箱：命令解析、相对↔绝对互转、包围盒计算与坐标数值简化取整，离线可用。 |
+| [JsonPointerForge](https://wangzifan396-wzf.github.io/JsonPointerForge/) ⭐ | 数据工具 | RFC 6901 JSON Pointer：按 /a/b/1 取值与赋值、~0/~1 转义处理，便于 JSON 补丁与定位，离线可用。 |
+| [AsciiTableForge](https://wangzifan396-wzf.github.io/AsciiTableForge/) ⭐ | 文本处理 | ASCII 表格生成器：Tab/逗号分隔行列数据渲染为带边框、列宽对齐的纯文本表格，离线可用。 |
 | [MetronomeForge](https://wangzifan396-wzf.github.io/MetronomeForge/) ⭐ | 实用计算 | 节拍器：可调 BPM 与拍号，支持重音与前瞻调度内核，Tap 测速，辅助练习节奏，离线可用。 |
 | [PaletteForge](https://wangzifan396-wzf.github.io/PaletteForge/) ⭐ | 设计工具 | 配色生成器：色相旋转派生互补/三角/邻近/单色方案，WCAG 对比度校验，点选即复制，离线可用。 |
 | [ChordForge](https://wangzifan396-wzf.github.io/ChordForge/) ⭐ | 实用计算 | 和弦与音阶：和弦识别、音阶构建、音名解析与异名同音归一。 |
@@ -348,7 +358,7 @@
 ## 质量保障
 
 - 每个工具都带 `_test.js`（纯函数断言）+ `smoke.js`（jsdom 冒烟），CI 全绿。
-- 全矩阵回归：`run_matrix_tests.py` 一键跑 308 工具测试。
+- 全矩阵回归：`run_matrix_tests.py` 一键跑 318 工具测试。
 
 ## License
 
